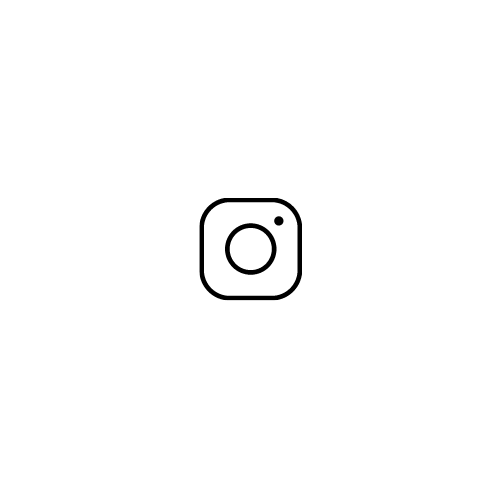
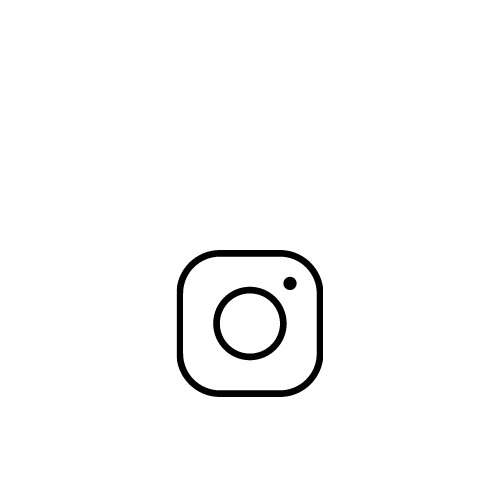
clean

Changed region(s): [[0.33, 0.39, 0.66, 0.81]]

diff --git a/src/views/LeftPage.vue b/src/views/LeftPage.vue
@@ -1,7 +1,7 @@
 <template>
   <div id="leftPage">
     <div id="menuItems">
-      <h3 id="hp">Points de vie</h3>
+      <h3 id="hp"><u>Points de vie</u></h3>
 
       <div id="hpBar">
         <div>{{ lifePoints }}/{{ startingLifePoints }}</div>
@@ -111,20 +111,25 @@ export default {
   --lifeBar: "";
 }
 
-@font-face {
+/* @font-face {
   font-family: "Augusta";
   src: url("../assets/augusta/Augusta.ttf");
+  font-family: 'Merriweather', serif;
+} */
+
+body {
+  font-family: 'Merriweather', serif;
 }
 
 #leftPage {
   top: -4%;
   width: 0px;
   height: 100vh;
-  background-image: linear-gradient(
+  /* background-image: linear-gradient(
       rgba(255, 255, 255, 0.5),
       rgba(0, 0, 0, 0.5)
     ),
-    url("../assets/gate-removebg-preview.png");
+    url("../assets/gate-removebg-preview.png"); */
   position: relative;
   z-index: 2;
   display: flex;
@@ -169,7 +174,7 @@ export default {
   left: -200px;
 }
 #hpBar {
-  background: linear-gradient(to top, red var(--lifeBar), #eee0ee66 0%);
+  background: linear-gradient(to top, rgb(148, 128, 43) var(--lifeBar), #eee0ee66 0%);
   border: solid;
   border-radius: 50%;
   width: 100px;
@@ -200,7 +205,7 @@ export default {
 }
 
 h3 {
-  font-family: Augusta;
+  font-family: 'Merriweather', serif;
   color: black;
   font-size: 1.2em;
   text-shadow: none;

diff --git a/src/views/About.vue b/src/views/About.vue
@@ -15,7 +15,7 @@
       Retrouvez nous sur les réseaux sociaux.
     </span></div>
     <img src="../assets/Fb.png" alt="fb" class="rs">
-    <img src="../assets/Insta.png" alt="fb" class="rs">
+    <img src="../assets/Insta.png" alt="fb" class="rsf">
     </div>
     </div>
   </div>
@@ -23,12 +23,7 @@
 
 
 <script>
-// var about = new Vue ({
-//   el: '#about',
-//   data: {
-//     message : "Si vous êtes arrivé là.."
-//   }
-// })
+
 
 </script>
 
@@ -37,8 +32,7 @@
 
 
 body{
-  
-  color: black;
+  font-family: 'Merriweather', serif;
   
 }
 
@@ -48,6 +42,8 @@ flex-direction: row;
 justify-content: space-around;
 height: 100%;
 width: 100%;
+margin: 2%;
+color: black;
 
 
 }
@@ -78,7 +74,12 @@ border-radius: 10%;
 
 .rs {
   height: 10%;
-  width: 20%;
+  width: 22%;
+}
+
+.rsf{
+  height: 10%;
+  width: 22%;
 }
 
 </style>

diff --git a/src/router/index.js b/src/router/index.js
@@ -16,13 +16,13 @@ Vue.use(VueRouter)
 
 const routes = [
    {
-     // juste le slash ça permet de dire que ce sera cette vue qui sera envoyée par défaut
+     // le slash permet d'envoyer au ficheir racine apr défaut
     path: "/",
     name: "Home",
     component: Home
   },
   {
-    // juste le slash ça permet de dire que ce sera cette vue qui sera envoyée par défaut
+   
     path: "/action/:id",
     name: "Action",
     component: Action

diff --git a/src/views/RightPage.vue b/src/views/RightPage.vue
@@ -75,16 +75,20 @@ export default {
 </script>-->
 
 <style scoped>
-@font-face {
+/* @font-face {
   font-family: "Augusta";
   src: url("../assets/augusta/Augusta.ttf");
-}
+} */
 
 /*#rightCtn {
   display: flex;
   flex-direction: column;
   justify-content: space-between;
 }*/
+
+body{
+  font-family: 'Merriweather', serif;
+}
 
 #rightPage {
   top: -4%;

diff --git a/src/views/Magic.vue b/src/views/Magic.vue
@@ -48,11 +48,13 @@ pas. Ils pourront vous rendre les plus grands services dans vos futures missions
 
 <style scoped>
 p {
+    font-family: 'Merriweather', serif;
     
     text-align: justify;
     line-height: 140%;
     width: 80%;
     position: relative;
-    left: 10%
+    left: 10%;
+    margin: 2%;
 }
 </style>

diff --git a/src/views/BasicRules.vue b/src/views/BasicRules.vue
@@ -69,11 +69,13 @@ que nous ne partions. Deux démarches où intervient l'arithmétique.</p>
 
 <style scoped>
 p {
+    font-family: 'Merriweather', serif;
     
     text-align: justify;
     line-height: 140%;
     width: 80%;
     position: relative;
-    left: 10%
+    left: 10%;
+    margin: 2%
 }
 </style>

diff --git a/src/views/Life.vue b/src/views/Life.vue
@@ -88,11 +88,13 @@ Et maintenant, passons au sortilège.
 
 <style scoped>
 p {
+    font-family: 'Merriweather', serif;
     text-align: justify;
     line-height: 140%;
     width: 80%;
     position: relative;
-    left: 10%
+    left: 10%;
+    margin: 2%
 
 }
 </style>

diff --git a/src/views/Tableau.vue b/src/views/Tableau.vue
@@ -79,12 +79,13 @@ export default {
   outline: none;
 }
 
-@font-face {
+/* @font-face {
   font-family: "Irish";
   src: url("../assets/IrishUncialfabeta-Bold.ttf");
-}
+} */
 html,
 body {
+  font-family: 'Merriweather', serif;
   height: 100%;
   width: 100%;
 }

diff --git a/src/views/Rules.vue b/src/views/Rules.vue
@@ -61,9 +61,9 @@ export default {
 
 
 body{
-background:black;
  margin: 0;
  padding: 0;
+ font-family: 'Merriweather', serif;
   
 }
 
@@ -76,7 +76,7 @@ background:black;
 
 
 .h1{
-    font: #000000;
+  color: #000000;
 }
 
 .containerp{

diff --git a/src/views/RulesCard.vue b/src/views/RulesCard.vue
@@ -76,7 +76,8 @@
 }
 
 body {
-  font-family: "Noto Sans JP", sans-serif;
+  font-family: 'Merriweather', serif;
+  /* font-family: "Noto Sans JP", sans-serif; */
   background-color: #fef8f8;
 }
 

diff --git a/src/views/header.vue b/src/views/header.vue
@@ -25,8 +25,8 @@ export default {
 }
 
 header {
+  font-family: 'Merriweather', serif;
   position: relative;
-  /*background-color: grey;*/
   left: 0;
   top: 0;
   height: 70px;

diff --git a/src/views/Game.vue b/src/views/Game.vue
@@ -261,6 +261,7 @@ export default {
 
 <style scoped>
 * {
+  font-family: 'Merriweather', serif;
   margin: 0;
   padding: 0;
 }
